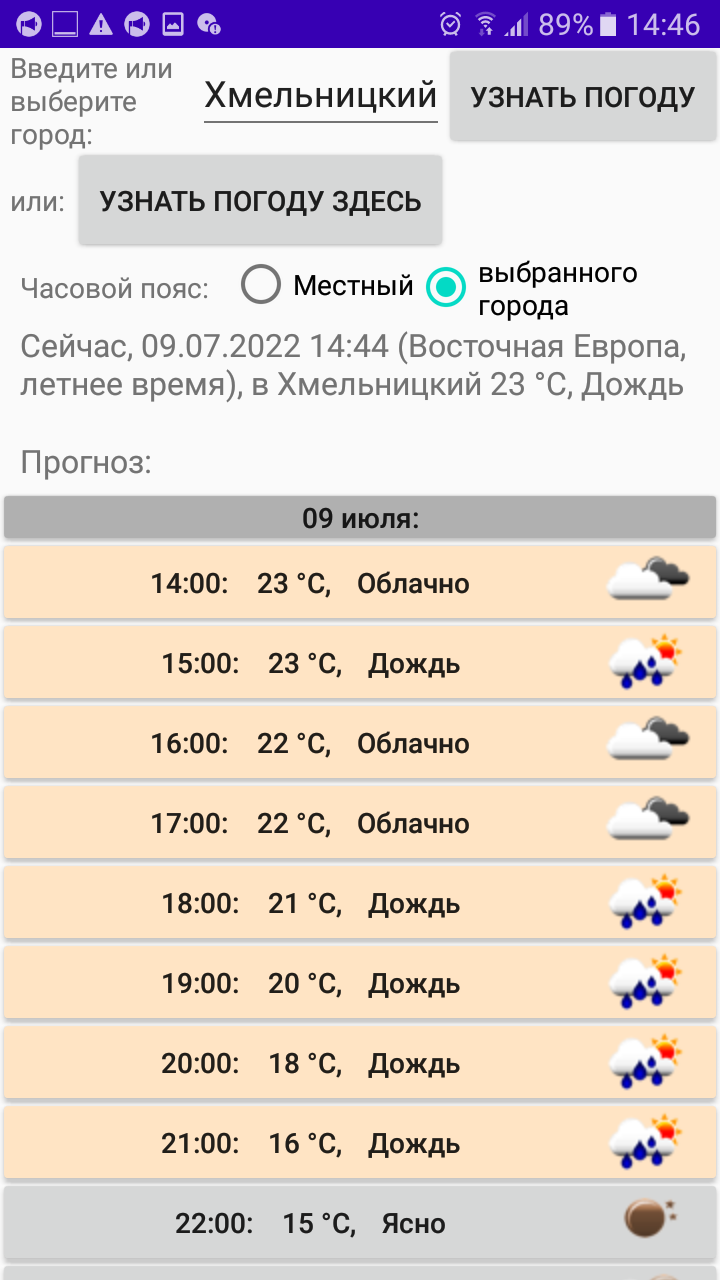
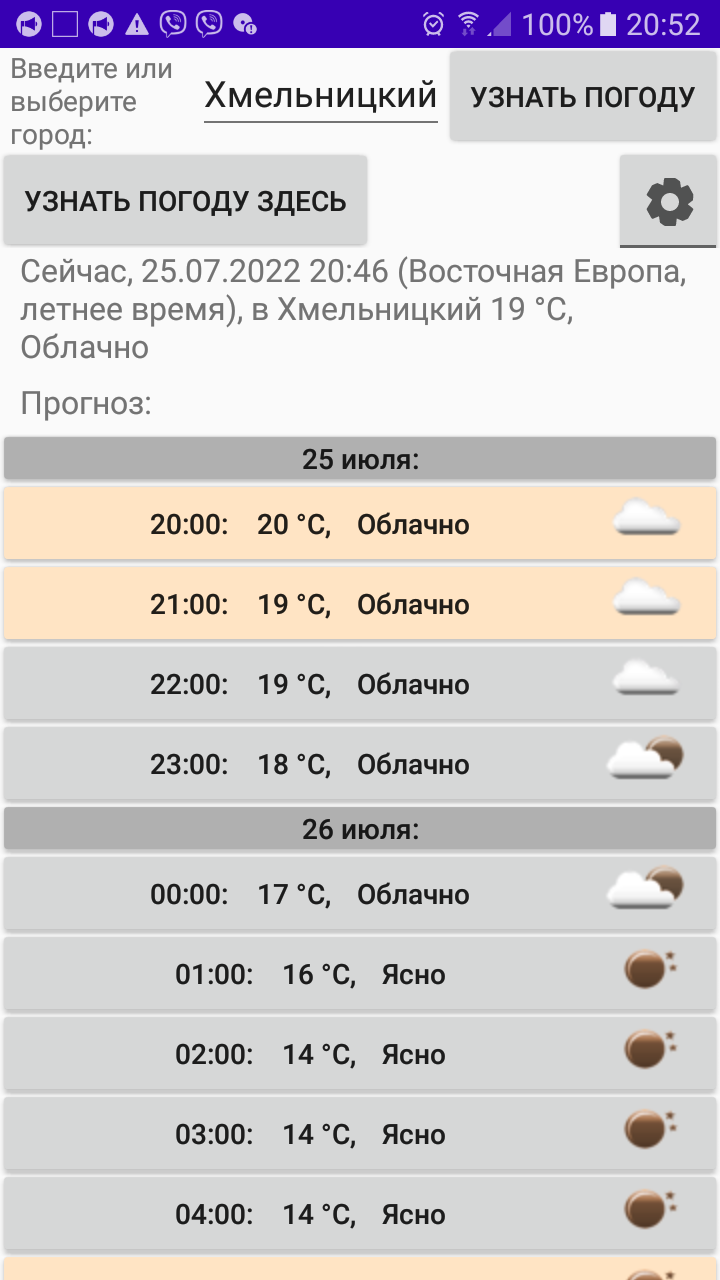
Add feature: Auto get weather on app launch

diff --git a/app/src/main/java/com/example/WeatherK/MainActivity.kt b/app/src/main/java/com/example/WeatherK/MainActivity.kt
@@ -302,6 +302,8 @@ class MainActivity : AppCompatActivity() {
 
 		editor.putStringSet("cities", listCities.toSet())
 
+		editor.putBoolean("autoGetWeather", checkBoxAutoGetWeather.isChecked)
+
 		editor.apply()
 	}
 
@@ -328,6 +330,11 @@ class MainActivity : AppCompatActivity() {
 
 		adapterCities = ArrayAdapter<String>(this, android.R.layout.simple_dropdown_item_1line, listCities)
 		selectCity.setAdapter(adapterCities)
+
+		checkBoxAutoGetWeather.isChecked = prefs.getBoolean("autoGetWeather", false)
+
+		if (checkBoxAutoGetWeather.isChecked)
+			buttonGetWeatherClick(buttonGetWeather)
 	}
 
 //------------------------------- Downloading images for buttons -------------------------------
